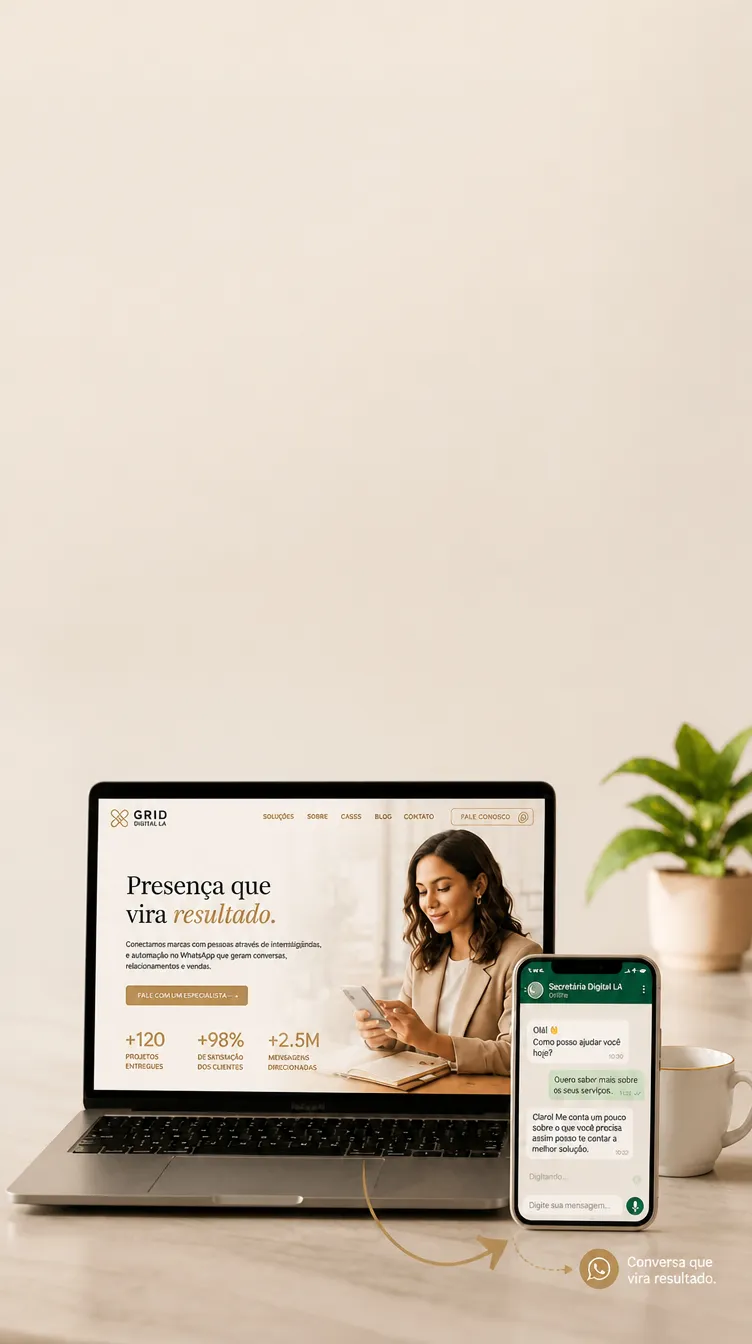
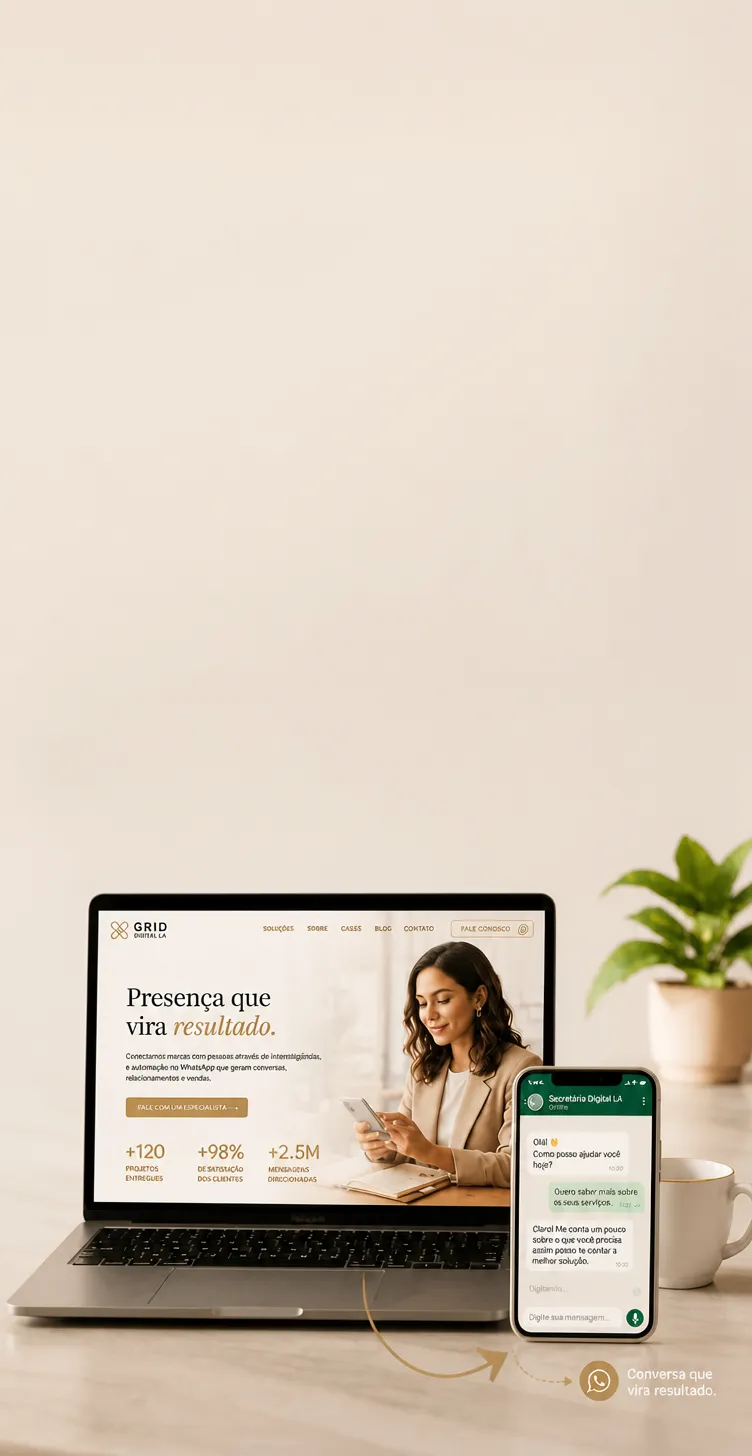
Atualiza imagem de fundo mobile e ajustes do hero/serviços
- Troca o arquivo bg-site-grid-2-light-mobile.webp (nova versão)
- Desktop: mesmo tratamento do mobile no hero (sem overlay, texto
  marrom escuro, detalhes/botões em terracota) — consolidado no CSS base
- Serviços: preenche a célula vazia da grade na cor do fundo (não
  parece mais um card cinza)
- Seção "Próximo passo": atualiza a copy do diagnóstico

Changed region(s): [[0.0, 0.5312, 1.0, 0.9688]]

diff --git a/site-institucional/index.html b/site-institucional/index.html
@@ -24,14 +24,7 @@
     /* HERO */
     .hero {
       min-height: 100vh;
-      background-image:
-        linear-gradient(100deg,
-          rgba(44, 24, 16, 0.92) 0%,
-          rgba(44, 24, 16, 0.72) 28%,
-          rgba(44, 24, 16, 0.35) 46%,
-          rgba(44, 24, 16, 0.05) 60%,
-          rgba(44, 24, 16, 0) 72%),
-        url('../assets/bg-site-grid-2-light-desktop.webp');
+      background-image: url('../assets/bg-site-grid-2-light-desktop.webp');
       background-size: cover;
       background-position: center right;
       background-repeat: no-repeat;
@@ -42,7 +35,10 @@
       overflow: hidden;
     }
 
-    .hero .texture-overlay { opacity: 0.4; }
+    .hero .texture-overlay { display: none; }
+    .hero .btn-primary { background: var(--terracota); color: var(--champagne-pale); }
+    .hero .btn-primary:hover { background: var(--terracota-mid); }
+    .hero .btn-ghost { color: var(--terracota); border-bottom-color: rgba(139, 58, 26, 0.45); }
 
     .hero-inner {
       max-width: var(--container-max);
@@ -62,7 +58,7 @@
       font-weight: 400;
       letter-spacing: 0.18em;
       text-transform: uppercase;
-      color: var(--champagne);
+      color: var(--brown-dark);
       margin-bottom: 1.5rem;
       display: flex;
       align-items: center;
@@ -74,8 +70,8 @@
       display: block;
       width: 2.5rem;
       height: 1px;
-      background: var(--champagne);
-      opacity: 0.6;
+      background: var(--terracota);
+      opacity: 1;
       flex-shrink: 0;
     }
 
@@ -84,14 +80,14 @@
       font-size: clamp(3rem, 5.5vw, 5rem);
       font-weight: 500;
       line-height: 1.08;
-      color: var(--champagne-pale);
+      color: var(--brown-dark);
       margin-bottom: 1.5rem;
       letter-spacing: -0.01em;
     }
 
     .hero h1 em {
       font-style: italic;
-      color: var(--champagne);
+      color: var(--terracota);
     }
 
     .hero-desc {
@@ -99,7 +95,7 @@
       font-size: 1.2rem;
       font-weight: 300;
       line-height: 1.7;
-      color: var(--text-muted-on-terra);
+      color: var(--brown-mid);
       max-width: 480px;
       margin-bottom: 2.5rem;
     }
@@ -299,6 +295,13 @@
 
     .service-card:hover { background: var(--cream); }
     .service-card:hover::before { transform: scaleX(1); }
+
+    /* Preenche a célula vazia da grade (5 serviços em 3 colunas) na cor do
+       fundo e cobre as linhas internas adjacentes, para não parecer um card. */
+    .service-filler {
+      background: var(--off-white);
+      margin: -1.5px 0 0 -1.5px;
+    }
 
     .service-icon {
       width: 2.5rem;
@@ -563,17 +566,7 @@
         align-items: flex-start;
         background-image: url('../assets/bg-site-grid-2-light-mobile.webp');
         background-position: bottom center;
-        background-size: cover;
       }
-      .hero .texture-overlay { display: none; }
-      .hero-eyebrow { color: var(--brown-dark); }
-      .hero-eyebrow::before { background: var(--terracota); opacity: 1; }
-      .hero h1 { color: var(--brown-dark); }
-      .hero h1 em { color: var(--terracota); }
-      .hero-desc { color: var(--brown-mid); }
-      .hero .btn-ghost { color: var(--terracota); border-bottom-color: rgba(139, 58, 26, 0.45); }
-      .hero .btn-primary { background: var(--terracota); color: var(--champagne-pale); }
-      .hero .btn-primary:hover { background: var(--terracota-mid); }
       .hero-inner { grid-template-columns: 1fr; gap: 3rem; }
 
       .services-section,
@@ -774,6 +767,7 @@
         <h3 class="service-name">Consultoria &amp; Diagnóstico</h3>
         <p class="service-desc">Sessão estratégica individual para identificar se a estrutura dos seus canais digitais estão travando o crescimento do seu negócio, com um plano de ação claro para implementação nos próximos 90 dias.</p>
       </div>
+      <div class="service-filler" aria-hidden="true"></div>
     </div>
   </div>
 </section>
@@ -919,7 +913,7 @@
       <p class="section-label section-label--light">Próximo passo</p>
       <h2 class="contact-title">Vamos conversar<br>sobre o seu <em>negócio</em></h2>
       <div class="divider divider--light"></div>
-      <p class="section-desc section-desc--light">O diagnóstico inicial é sem compromisso. Em 30 minutos, entendemos onde o digital está travando o seu crescimento e o que faz sentido fazer agora.</p>
+      <p class="section-desc section-desc--light">O diagnóstico inicial é sem compromisso. Em 30 minutos, entendemos onde a estrutura dos seus canais digitais estão travando o seu crescimento e quais soluções podemos propor.</p>
     </div>
     <form class="contact-form fade-up" style="transition-delay: 0.15s" onsubmit="handleSubmit(event)">
       <div class="form-row">